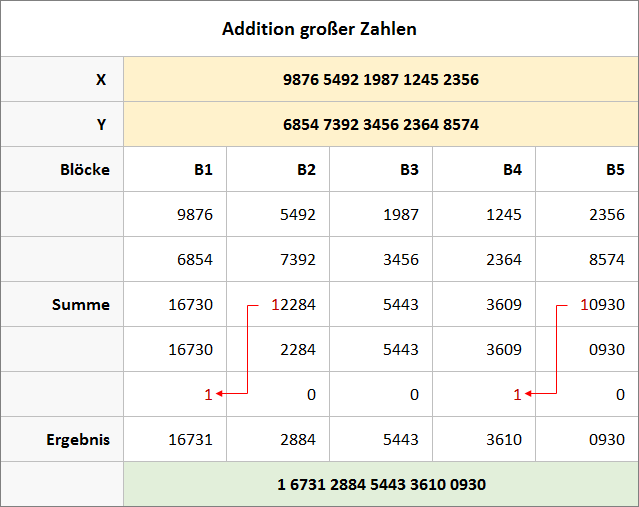
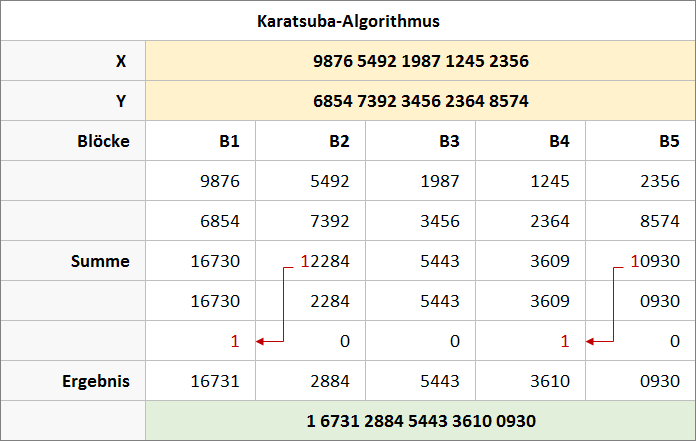
Update Docs

Changed region(s): [[0.0, 0.0295, 1.0, 1.0], [0.4163, 0.9433, 0.7731, 0.9728]]

diff --git a/docs/en/02-Addition.md b/docs/en/02-Addition.md
@@ -1,4 +1,8 @@
-# 02 - Addition
+# Documentation
+
+## Addition of large numbers in Excel
 
 Todo...
 
+
+![Addition of large numbers with the Karatsuba algorithm](images/add.karatsuba.png)
